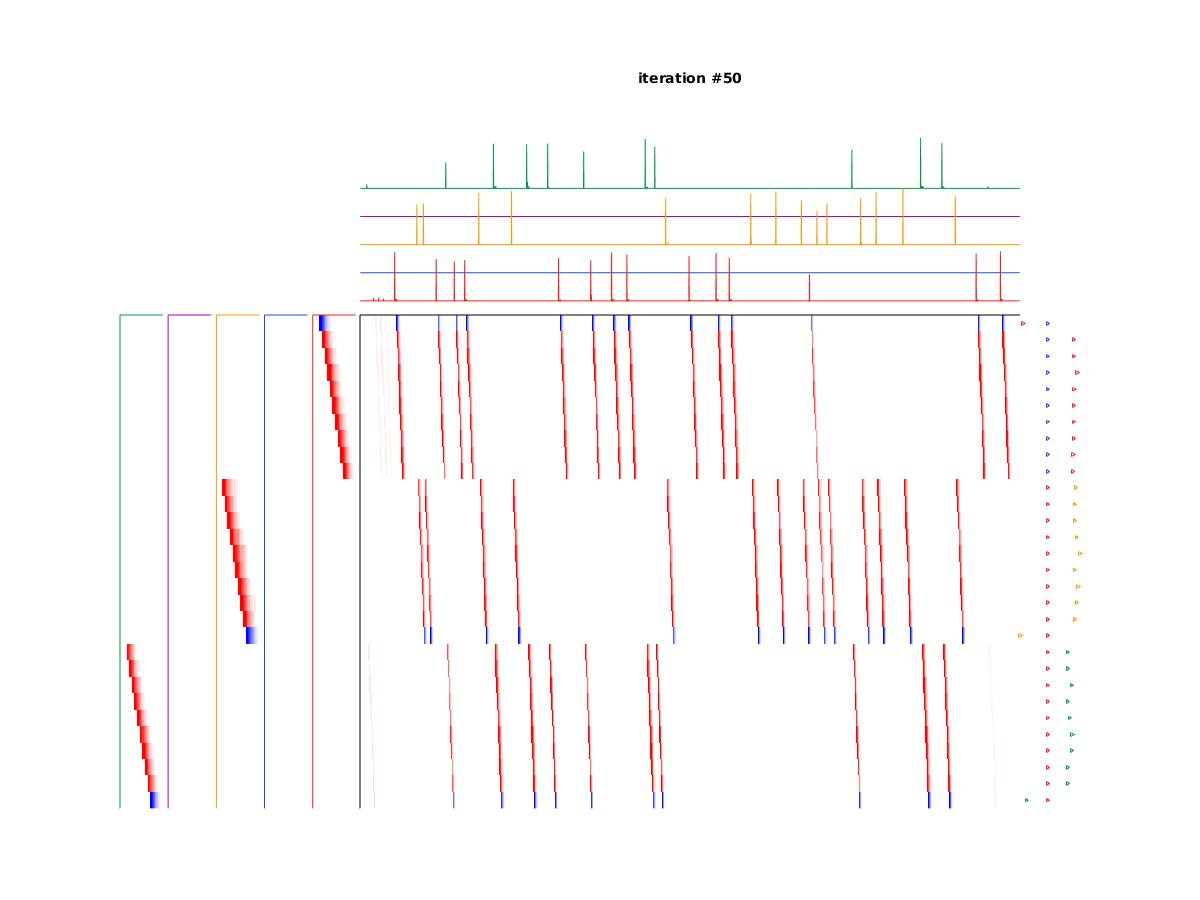
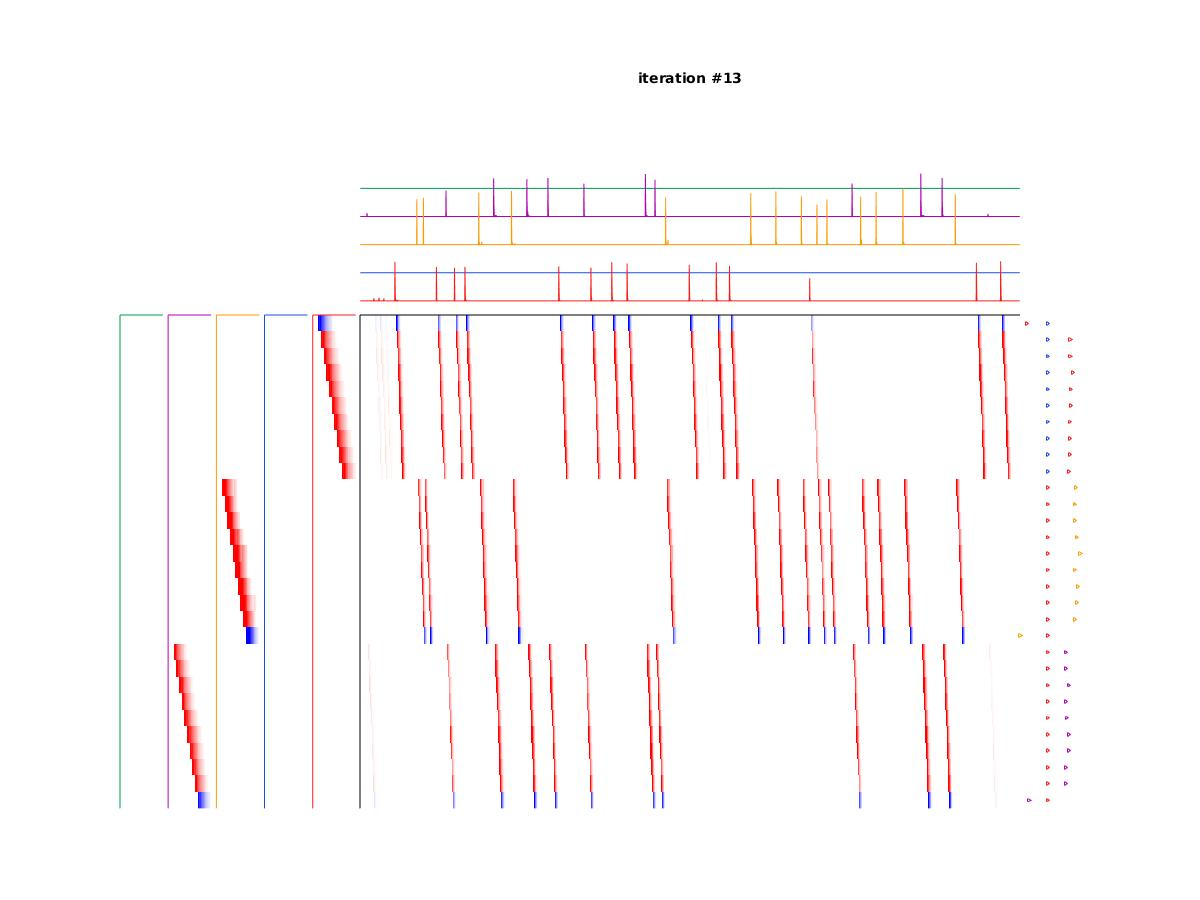
tune params in FlexMF and plot results

diff --git a/demo.m b/demo.m
@@ -30,47 +30,106 @@ X = X/nuc_norm*size(X,1);
 %% Fit with seqNMF
 K = 5;
 L = 50;
-lambda = 1e-2;
+lambda = 1e-4;
+alpha = 1e-3;
 lambdaL1H = 0;
 lambdaL1W = .1;
 shg; clf
 display('Running FlexMF on simulated data (3 simulated sequences + noise)')
-[W_hat,H_hat,errors,loadings,power] = FlexMF(X,'K',K, 'L', L, 'maxiter', 50,...
-    'lambda', lambda, 'lambdaL1W', lambdaL1W, 'lambdaL1H', lambdaL1H);
+tic
+[W_hat,H_hat,cost,loadings,power] = FlexMF(X,'K',K, 'L', L, 'maxiter', 50,...
+    'lambda', lambda, 'alpha', alpha, 'lambdaL1W', lambdaL1W, 'lambdaL1H', lambdaL1H);
+toc
 set(gcf,'position',[200,200,1200,900])
-
-% figure
-% plot(grads.grads_H_recon_all)
-% hold on
-% plot(grads.grads_H_WXH_all)
-% plot(grads.grads_H_HH_all)
-% plot(grads.grads_H_L1H_all)
-% legend('Reconstruction gradient over H','Regularization WXH gradient over H', ...
-%     'Regularization HH gradient over H', 'Regularization L1H gradient over H')
-% ylim([0,20])
-% 
-% figure
-% plot(grads.grads_W_recon_all)
-% hold on
-% plot(grads.grads_W_WXH_all)
-% plot(grads.grads_W_WW_all)
-% plot(grads.grads_W_L1W_all)
-% legend('Reconstruction gradient over W','Regularization WXH gradient over W', ...
-%     'Regularization WW gradient over W', 'Regularization L1W gradient over W')
-% ylim([0,5])
 % 
 figure;
-plot(errors)
+plot(cost(2:end))
 title('Reconstruction Error')
-ylim([0,10])
-% 
-% figure;
-% plot(grads.etaH_all)
-% title('Line search step on H')
-% 
-% figure;
-% plot(grads.etaW_all)
-% title('Line search step on W')
+
+%% Procedure for choosing lambda
+nLambdas = 9; % increase if you're patient
+nAlphas = 9;
+K = 5; 
+L = 50;
+lambdas = sort([logspace(-1,-5,nLambdas)], 'ascend'); 
+alphas = sort([logspace(-1,-5,nAlphas)], 'ascend'); 
+loadings = zeros(nLambdas, nAlphas, K);
+regularization = zeros(nLambdas, nAlphas);
+costs = zeros(nLambdas, nAlphas); 
+times = zeros(nLambdas, nAlphas); 
+
+for li = 1:length(lambdas)
+    for ai = 1:length(alphas)
+        tic
+        [W, H, ~,loadings(li,ai,:),power]= FlexMF(X,'K',K,'L',L, 'maxiter', 50,...
+            'lambdaL1W', .1, 'lambda', lambdas(li), 'alpha', alphas(ai), 'showPlot', 0); 
+
+        [costs(li,ai),regularization(li,ai),~] = helper.get_FlexMF_cost(X,W,H);
+        display(['Testing lambda ' num2str(li) '/' num2str(length(lambdas))])
+        display(['Testing alpha ' num2str(ai) '/' num2str(length(alphas))])
+        time = toc
+        times(li,ai) = time;
+    end
+end
+save('choose_lambda.mat', 'costs', 'regularization', 'times', 'loadings',...
+    'lambdas', 'alphas')
+%% plot costs as a function of lambda
+load choose_lambda.mat;
+windowSize = 3; 
+b = (1/windowSize)*ones(1,windowSize);
+a = 1;
+sel = logical(alphas==1e-3);
+Rs = filtfilt(b,a,regularization(:,sel)); 
+minRs = prctile(regularization(:,sel),10); maxRs= prctile(regularization(:,sel),90);
+Rs = (Rs-minRs)/(maxRs-minRs); 
+R = (regularization(:,sel)-minRs)/(maxRs-minRs); 
+Cs = filtfilt(b,a,costs(:,sel)); 
+minCs =  prctile(costs(:,sel),10); maxCs =  prctile(costs(:,sel),90); 
+Cs = (Cs -minCs)/(maxCs-minCs); 
+C = (costs(:,sel) -minCs)/(maxCs-minCs); 
+
+figure; clf; hold on
+plot(lambdas,Rs, 'b')
+plot(lambdas,Cs,'r')
+scatter(lambdas, R, 'b', 'markerfacecolor', 'flat');
+scatter(lambdas, C, 'r', 'markerfacecolor', 'flat');
+xlabel('Lambda'); ylabel('Cost (au)')
+set(legend('Correlation cost', 'Reconstruction cost'), 'Box', 'on')
+set(gca, 'xscale', 'log', 'ytick', [], 'color', 'none')
+set(gca,'color','none','tickdir','out','ticklength', [0.025, 0.025])
+title('alpha=1e-3')
+
+minRs = min(regularization(:)); maxRs= max(regularization(:));
+R = (regularization-minRs)/(maxRs-minRs);  
+minCs =  min(costs(:)); maxCs =  max(costs(:)); 
+C = (costs-minCs)/(maxCs-minCs); 
+nAlphas = length(alphas);
+nLambdas = length(lambdas);
+
+figure;
+set(gcf,'position',[200,200,900,900])
+marginX = 0.1;
+marginY = 0.1;
+for li = 1:nLambdas
+    for ai = 1:nAlphas
+        subplot('Position', [marginX+(ai-1)*(1-marginX)/nAlphas, (nLambdas-li)*(1-marginY)/nLambdas, (1-marginX)/nAlphas, (1-marginY)/nLambdas]);
+        b = bar([R(li,ai), C(li,ai)],'FaceColor','flat');
+        b.CData(2,:) = [1 0 0];
+        set(gca,'YLim',[0,1],'XTick',[],'YTick',[])
+    end
+end
+dim_Lambdas = [zeros(nLambdas,1), (nLambdas-1:-1:0)'*(1-marginY)/nLambdas,... 
+    (1-marginX)/nAlphas*ones(nLambdas,1), (1-marginY)/nLambdas*ones(nLambdas,1)];
+dim_Alphas = [marginX+(0:nAlphas-1)'*(1-marginX)/nAlphas, (1-marginY)*ones(nAlphas,1),...
+    (1-marginX)/nAlphas*ones(nAlphas,1), (1-marginY)/nLambdas*ones(nAlphas,1)];
+for li = 1:nLambdas
+    annotation('textbox',dim_Lambdas(li,:),'String',sprintf('\\lambda=%0.3e',lambdas(li)),...
+        'HorizontalAlignment', 'center', 'VerticalAlignment', 'middle', 'EdgeColor', 'none')
+end
+for ai = 1:nAlphas
+    annotation('textbox',dim_Alphas(ai,:),'String',sprintf('\\alpha=%0.3e',alphas(ai)),...
+        'HorizontalAlignment', 'center', 'VerticalAlignment', 'middle', 'EdgeColor', 'none')
+end
 
 %% Look at factors
 figure; SimpleWHPlot(W_hat,H_hat); title('SeqNMF reconstruction')
@@ -89,7 +148,7 @@ for k = 1:10
     end
     inds = nchoosek(1:numfits,2);
     for i = 1:size(inds,1) % consider using parfor for larger numfits
-            Diss(i,k) = helper.DISSX(Hs{inds(i,1),k},Ws{inds(i,1),k},Hs{inds(i,2),k},Ws{inds(i,2),k});
+        Diss(i,k) = helper.DISSX(Hs{inds(i,1),k},Ws{inds(i,1),k},Hs{inds(i,2),k},Ws{inds(i,2),k});
     end
     
 end
@@ -161,6 +220,8 @@ for li = 1:length(lambdas)
     [cost(li),regularization(li),~] = helper.get_seqNMF_cost(X,W,H);
     display(['Testing lambda ' num2str(li) '/' num2str(length(lambdas))])
 end
+
+
 %% plot costs as a function of lambda
 windowSize = 3; 
 b = (1/windowSize)*ones(1,windowSize);

diff --git a/FlexMF.m b/FlexMF.m
@@ -1,4 +1,4 @@
-function [W, H, errors, loadings, power] = FlexMF(X, varargin)
+function [W, H, cost, loadings, power] = FlexMF(X, varargin)
 %
 % USAGE: 
 %
@@ -55,7 +55,7 @@ function [W, H, errors, loadings, power] = FlexMF(X, varargin)
 %
 % W                         NxKxL tensor containing factor exemplars
 % H                         KxT matrix containing factor timecourses
-% errors                      1x(#Iterations+1) vector containing 
+% cost                      1x(#Iterations+1) vector containing 
 %                               reconstruction error at each iteration. 
 %                               cost(1) is error before 1st iteration.
 % loadings                  1xK vector containing loading of each factor 
@@ -85,11 +85,26 @@ function [W, H, errors, loadings, power] = FlexMF(X, varargin)
 W_pre = params.W_init;
 H_pre = params.H_init;
 W = params.W_init;
+
+Xhat = helper.reconstruct(W_pre, H_pre); 
+mask = find(params.M == 0); % find masked (held-out) indices 
+X(mask) = Xhat(mask); % replace data at masked elements with reconstruction, so masked datapoints do not effect fit
+
 lasttime = 0;
-errors = zeros(params.maxiter, 1);
+cost = zeros(params.maxiter+1, 1);
+cost(1) = sqrt(mean((X(:)-Xhat(:)).^2));
 
 for iter = 1 : params.maxiter
-    tic
+    % Stopping criteria... Stop if reach maxiter or if change in cost function is less than the tolerance
+    if (iter == params.maxiter) || ((iter>5) && (dW < params.tolerance))
+        cost = cost(1 : iter+1);  % trim vector
+        lasttime = 1; 
+%         if iter>1
+%             params.lambda = 0; % Do one final CNMF iteration (no regularization, just prioritize reconstruction)
+%         end
+    end
+    
+%     tic
     fprintf('Iter %d\n', iter);
     
     fprintf('Updating W\n');
@@ -104,13 +119,7 @@ for iter = 1 : params.maxiter
     W_tmp = W + 0.05*max(W_pre(:))*rand(N, K, L);
     H = updateH(W, H0, X, params);   
 
-    toc
-    
-    % Calculate cost for this iteration
-    Xhat = helper.reconstruct(W, H);    
-    mask = find(params.M == 0); % find masked (held-out) indices 
-    X(mask) = Xhat(mask); % replace data at masked elements with reconstruction, so masked datapoints do not effect fit
-    errors(iter) = norm(X-Xhat, 'fro');
+%     toc
     
     % Shift to center factors
     if params.shift
@@ -124,14 +133,13 @@ for iter = 1 : params.maxiter
         W(:, :, l) = W(:, :, l) * diag(norms);
     end 
     
-    % Stopping criteria... Stop if reach maxiter or if change in cost function is less than the tolerance
-    if (iter == params.maxiter) || (norm(W(:)-W_pre(:)) < params.tolerance)
-        errors = errors(1 : iter);  % trim vector
-        lasttime = 1; 
-%         if iter>1
-%             params.lambda = 0; % Do one final CNMF iteration (no regularization, just prioritize reconstruction)
-%         end
-    end
+    % Calculate cost for this iteration
+    Xhat = helper.reconstruct(W, H);    
+    mask = find(params.M == 0); % find masked (held-out) indices 
+    X(mask) = Xhat(mask); % replace data at masked elements with reconstruction, so masked datapoints do not effect fit
+    cost(iter+1) = sqrt(mean((X(:)-Xhat(:)).^2));
+    dW = sqrt(mean((W(:)-W_pre(:)).^2));
+    fprintf('dW=%f\n', dW);
     
     % Plot to show progress
     if params.showPlot 
@@ -175,9 +183,10 @@ end
         addOptional(p,'K',10);
         addOptional(p,'L',100);
         addOptional(p,'lambda',.01);
+        addOptional(p,'alpha',1e-3);
         addOptional(p,'showPlot',1);
         addOptional(p,'maxiter',100);
-        addOptional(p,'tolerance',-Inf);
+        addOptional(p,'tolerance',1e-3);
         addOptional(p,'shift',1);
         addOptional(p,'lambdaL1W',0);
         addOptional(p,'lambdaL1H',0);

diff --git a/updateH.m b/updateH.m
@@ -1,9 +1,16 @@
 function H = updateH(W, H0, X, params)
 [N, K, L] = size(W);
 [~, T] = size(X);
-opts = tfocs;
+opts_default = tfocs;
+opts = opts_default;
 opts.maxIts = 500;
-% opts.tol = 1e-6;
+opts.tol = 1e-6;
+opts.restart = 50;
+if ~params.showPlot 
+    opts_default.printEvery = 0;
+    opts.printEvery = 0;
+end
+% ops.alg = 'N83';
 
 if params.lambda > 0
     % Use smooth cross orthogonal panelty regularization
@@ -27,9 +34,8 @@ if params.lambda > 0
         A = WTXS;
     end
     
-    alpha = 1e-3;
-    tol = 1e-3;
-    max_iter = 5;
+    tol_H = 1e-3;
+    max_iter = 20;
     for i=1:max_iter
         % Step 1: Update H
         op_recon = @(H, mode)tensor_conv_H(W, T, H, mode);
@@ -38,7 +44,7 @@ if params.lambda > 0
 %         op_reg_error = tfunc_scale(smooth_quad(params.lambda), 1, op_reg, B-D);
 %         op_smooth = tfunc_sum(op_recon_error, op_reg_error);
 %         op_smooth = @(varargin)off_diag_frob_norm_sqr(params.lambda, Q, varargin{:});
-        smoothF = {smooth_quad, smooth_quad(alpha)};
+        smoothF = {smooth_quad, smooth_quad(params.alpha)};
         affineF = {op_recon, -X; op_reg, B-D};
         H = tfocs(smoothF, affineF, proj_Rplus, H0, opts);
         
@@ -49,22 +55,27 @@ if params.lambda > 0
             drawnow
         end
         
-        fprintf('dH=%f\n',sqrt(sum((H-H0).^2, 'all')));
-        if sqrt(sum((H-H0).^2, 'all')) < tol
+        dH = sqrt(mean((H(:)-H0(:)).^2));
+        if dH < tol_H
             fprintf('Step size tolerance of H reached\n')
             break
         end
         
         % Step 2: Update D
         AH = A*H';
-        D = tfocs(smooth_quad(alpha), {1, -AH-B}, prox_l1(params.lambda*Q), D);
+        D = tfocs(smooth_quad(params.alpha), {1, -AH-B}, prox_l1(params.lambda*Q), D, opts_default);
         
         % Step 3: Update B
         B = B + AH - D;
+        
+        if params.showPlot 
+            fprintf('dH=%f\n',dH);
+            fprintf('reg=%f\n',sum(Q(:).*AH(:)));
+            fprintf('D=%f\n',sum(Q(:).*D(:)));
+            fprintf('B=%f\n',sum(Q(:).*B(:)));
+        end
+        
         H0 = H;
-        fprintf('reg=%f\n',sum(Q(:).*AH(:)));
-        fprintf('D=%f\n',sum(Q(:).*D(:)));
-        fprintf('B=%f\n',sum(Q(:).*B(:)));
     end
 %     op_recon = @(H, mode)tensor_conv_H(W, T, H, mode);
 %     op_reg = @(H, mode)smooth_cross_ortho_H(W, X, H, mode);
@@ -75,9 +86,9 @@ if params.lambda > 0
 elseif params.lambdaL1H > 0
     % Solve LASSO
     op_recon = @(H, mode)tensor_conv_H(W, T, H, mode);
-    H = tfocs(smooth_quad, {op_recon,-X}, prox_l1pos(params.lambdaL1H), H0, opts);
+    H = tfocs(smooth_quad, {op_recon,-X}, prox_l1pos(params.lambdaL1H), H0, opts_default);
 else
     % No regularization
     op_recon = @(H, mode)tensor_conv_H(W, T, H, mode);
-    H = tfocs(smooth_quad, {op_recon,-X}, [], H0, opts);
+    H = tfocs(smooth_quad, {op_recon,-X}, proj_Rplus, H0, opts_default);
 end

diff --git a/updateW.m b/updateW.m
@@ -3,6 +3,10 @@ function W = updateW(W0, H, X, params)
 [~, T] = size(X);
 opts = tfocs;
 opts.maxIts = 500;
+opts.tol = 1e-6;
+if ~params.showPlot 
+    opts.printEvery = 0;
+end
 
 % if params.lambda > 0
 %     % Use smooth cross orthogonal panelty regularization
@@ -57,5 +61,5 @@ if params.lambdaL1W > 0
 else
     % No regularization
     op_recon = @(W, mode)tensor_conv_W(H, N, L, W, mode);
-    W = tfocs(smooth_quad, {op_recon,-X}, [], W0, opts);
+    W = tfocs(smooth_quad, {op_recon,-X}, proj_Rplus, W0, opts);
 end

diff --git a/+helper/get_FlexMF_cost.m b/+helper/get_FlexMF_cost.m
@@ -1,4 +1,4 @@
-function [cost,regularization,WTX] = get_seqNMF_cost(X,W,H)
+function [cost,regularization,WTX] = get_FlexMF_cost(X,W,H)
 
 [N,K,L] = size(W);
 [~,T] = size(H);
